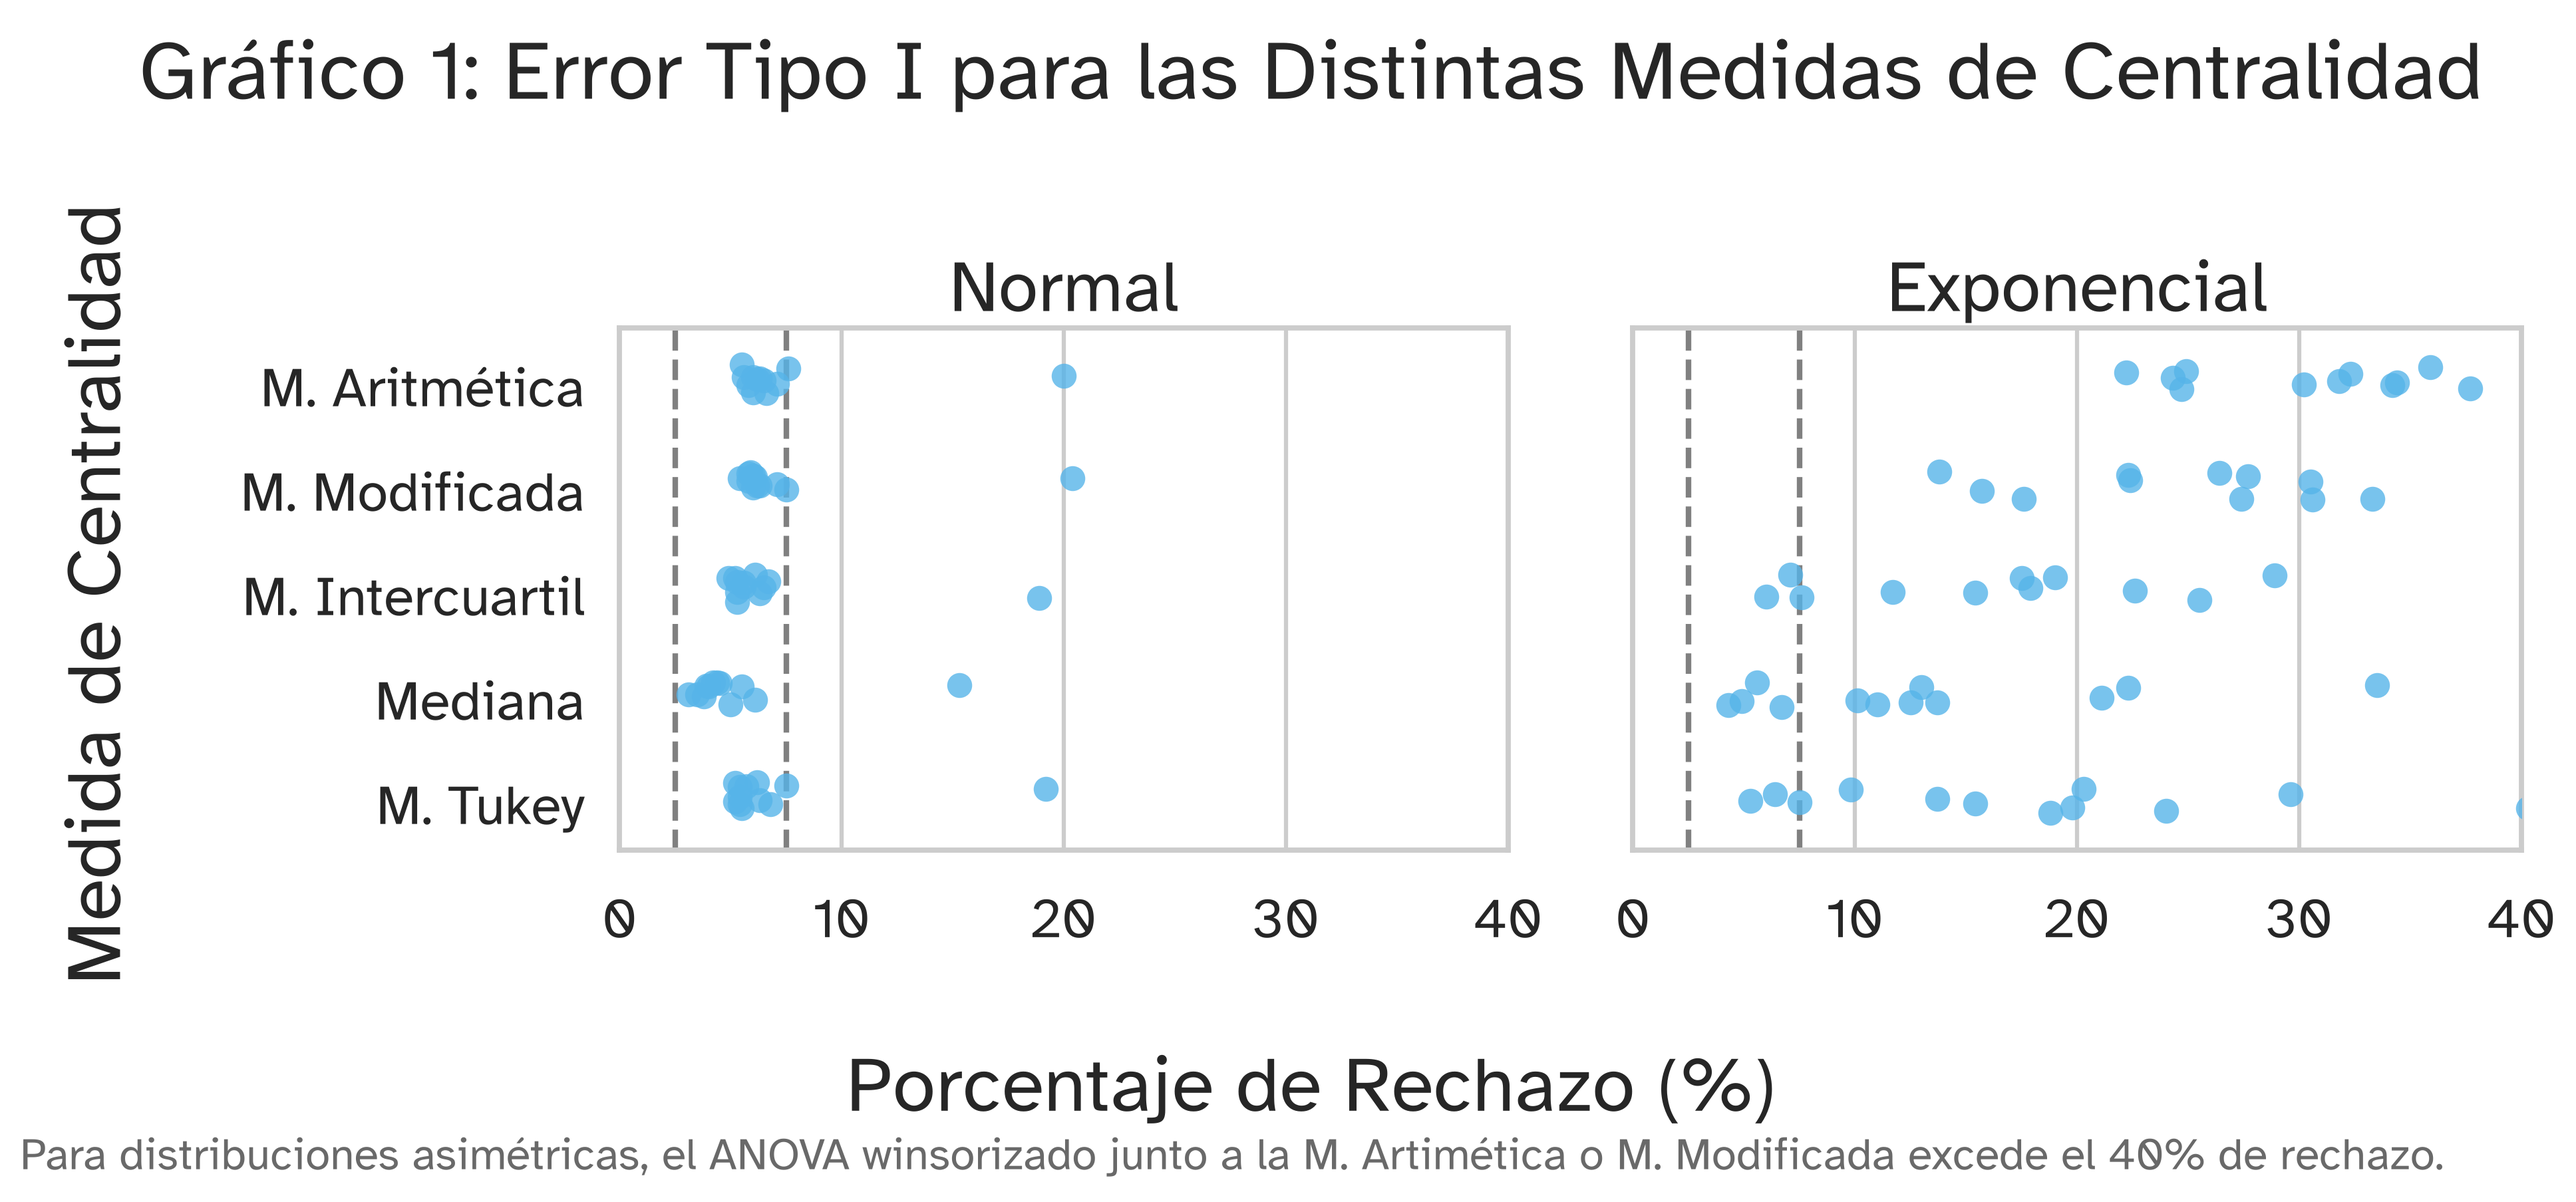
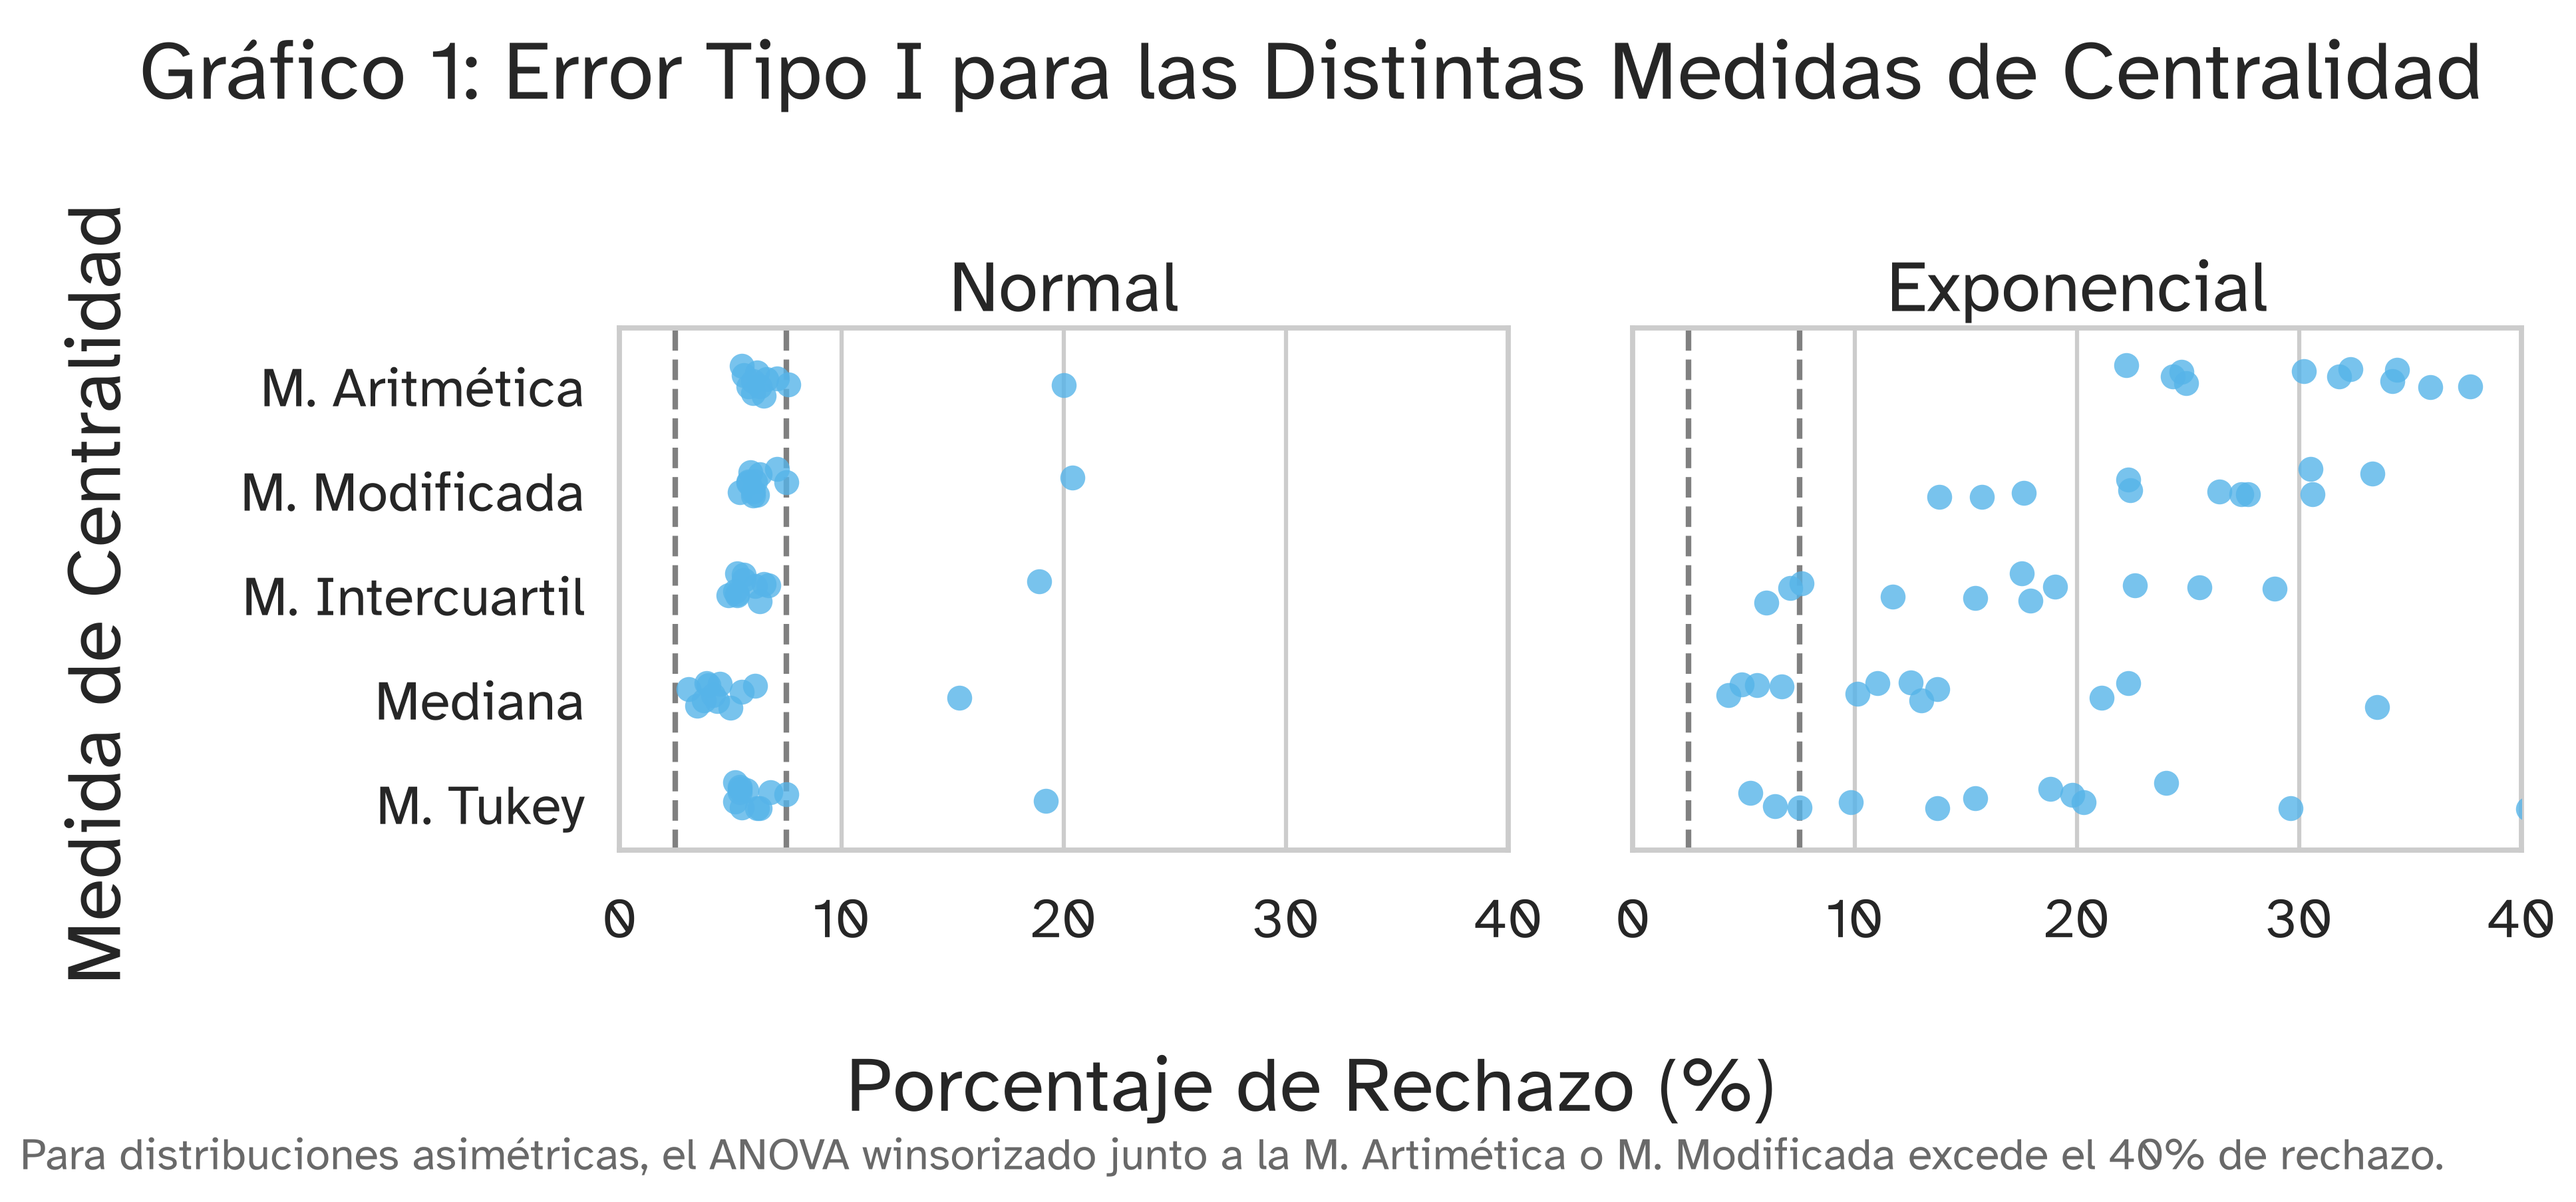
Grafico outliers, correcciones de estilo

diff --git a/graficos.py b/graficos.py
@@ -1,6 +1,7 @@
-import pandas as pd
 from pathlib import Path
+
 import matplotlib.pyplot as plt
+import pandas as pd
 import seaborn as sns
 
 N_SIMULATIONS = 1_000
@@ -225,14 +226,14 @@ def scatter_plot(
     scenario,
     group = 4,
     sample_size = 20,
-    dist_name = ["Normal", "Exponencial"],
+    dist_name = None,
 
     dot_color = OKABE_ITO["SKYBLUE"],
     x_label = "Porcentaje de Rechazo (%)",
     y_label = "Medida de Centralidad",
     title_label = "Error Tipo I para las distintas medidas de centtralidad",
 
-    x_ticks = [0, 20, 40, 60, 80, 100],
+    x_ticks =None,
     x_lim = (0,100),
 
     lines = None,
@@ -240,6 +241,13 @@ def scatter_plot(
     note = None,
 
     ):
+
+    if dist_name is None:
+        dist_name = ["Normal", "Exponencial"]
+    if x_ticks is None:
+        x_ticks =  [0, 20, 40, 60, 80, 100]
+
+    
     #convierte todo a lista
     scenario = ensure_list(scenario)
     group = ensure_list(group)
@@ -389,7 +397,7 @@ def bar_plot(
     y_var,
     group = 4,
     sample_size = 20,
-    dist_name = ["Normal", "Exponencial"],
+    dist_name = None,
     center_name = "Mediana",
 
     dot_color = OKABE_ITO["SKYBLUE"],
@@ -397,7 +405,7 @@ def bar_plot(
     y_label = "Medida de Centralidad",
     title_label = "Error Tipo I para las distintas medidas de centtralidad",
 
-    x_ticks = [0, 20, 40, 60, 80, 100],
+    x_ticks = None,
     x_lim = (0,100),
 
     lines = None,
@@ -405,6 +413,13 @@ def bar_plot(
     note = None,
 
     ):
+
+    if dist_name is None:
+        dist_name = ["Normal", "Exponencial"]
+    if x_ticks is None:
+        x_ticks = [0, 20, 40, 60, 80, 100]
+
+
     #convierte todo a lista
     scenario = ensure_list(scenario)
     group = ensure_list(group)
@@ -554,23 +569,18 @@ def line_plot(
     hue_var,
     group = 4,
     sample_size = 20,
-    dist_name = ["Normal", "Exponencial"],
+    dist_name = None,
     center_name = "Mediana",
-    test = ["ANOVA", "Permutación","ANOVA Raiz", "Welch"],
+    test = None,
 
-    palette={
-        "ANOVA" : OKABE_ITO["SKYBLUE"], 
-        "Permutación": OKABE_ITO["ORANGE"] ,
-        "ANOVA Raiz": OKABE_ITO["MAGENTA"], 
-        "Welch": OKABE_ITO["GREENBLUE"]
-    },
+    palette=None,
 
     dot_color = OKABE_ITO["SKYBLUE"],
     x_label = "Porcentaje de Rechazo (%)",
     y_label = "Medida de Centralidad",
     title_label = "Error Tipo I para las distintas medidas de centtralidad",
 
-    y_ticks = [0, 20, 40, 60, 80, 100],
+    y_ticks = None,
     y_lim = (0,100),
 
     lines = None,
@@ -578,6 +588,27 @@ def line_plot(
     note = None,
 
     ):
+
+    
+    if dist_name is None:
+        dist_name = ["Normal", "Exponencial"]
+    if y_ticks is None:
+        y_ticks = [0, 20, 40, 60, 80, 100]
+    if test is None:
+        test =  ["ANOVA", "Permutación","ANOVA Raiz", "Welch"]
+
+    if palette is None:
+        palette = {
+        "ANOVA" : OKABE_ITO["SKYBLUE"], 
+        "Permutación": OKABE_ITO["ORANGE"] ,
+        "ANOVA Raiz": OKABE_ITO["MAGENTA"], 
+        "Welch": OKABE_ITO["GREENBLUE"]
+    }
+
+
+
+
+
     #convierte todo a lista
     scenario = ensure_list(scenario)
     group = ensure_list(group)
@@ -904,10 +935,35 @@ fig = line_plot(
     lines = [2.5,7.5],
 )
 
-save_figure(fig = fig, name = "Grafico 8 Poteencia segun Cantidad de Grupos")
+save_figure(fig = fig, name = "Grafico 8 Potencia segun Cantidad de Grupos")
 
 
-## 
+## Outliers
+
+fig = line_plot(
+    scenario= [3, 14,15,16,17,18],
+    x_var = "Contaminación",
+    hue_var = "test",
+    center_name = "Mediana",
+    group = 4,
+    test=["ANOVA", "Permutación", "Welch"],
+
+    dist_name=["Normal"],
+
+
+
+    x_label = "Cantidad de Grupos",
+    y_label = "Porcentaje de Rechazo (%)",
+    title_label = "Gráfico 9: Error Tipo I según Cantidad de Valores Atípicos",
+
+    y_ticks = [0, 10, 20, 30, 40, 50, 60, ],
+    y_lim = (0,60),
+
+    lines = [2.5,7.5],
+)
+
+save_figure(fig = fig, name = "Grafico 9 Error Tipo I segun Cantidad de Valores Atípicos")
+
 
 
 

diff --git a/main.py b/main.py
@@ -1,16 +1,17 @@
 import csv
-import numpy as np
 import time
 import warnings
-import pandas as pd
-import statsmodels.api as sm 
-import statsmodels.formula.api as smf
-
-from astropy.stats import biweight_location
 from functools import partial
+
+import numpy as np
+import pandas as pd
+import statsmodels.api as sm
+import statsmodels.formula.api as smf
+from astropy.stats import biweight_location
 from scipy import stats
-from scipy.stats import rankdata,  chi2, t, lognorm, norm
+from scipy.stats import chi2, lognorm, norm, rankdata, t
 from statsmodels.tools.sm_exceptions import DomainWarning
+
 # Ignore only DomainWarning
 warnings.filterwarnings("ignore", category=DomainWarning)
 
@@ -328,7 +329,7 @@ def ANOVA_VanDerWaerden(data):
 
     s2 = 1 / (N - 1) * np.sum(np.square(combined_data))  # calcula la varianza
 
-    a = list()  # calcula la media de cada grupo
+    a = []  # calcula la media de cada grupo
     for d in normal_scores:
         a.append(np.mean(d))
 
@@ -419,7 +420,7 @@ def Mood(data):
 ########    ANOVA Winsorizado    ###############
 def ANOVA_winsorized(data):
 
-    winsorized_data = list()
+    winsorized_data = []
     for d in data:
         lower = np.percentile(np.array(d), 12.25)  # un cuarto de los datos
         upper = np.percentile(np.array(d), 87.75)
